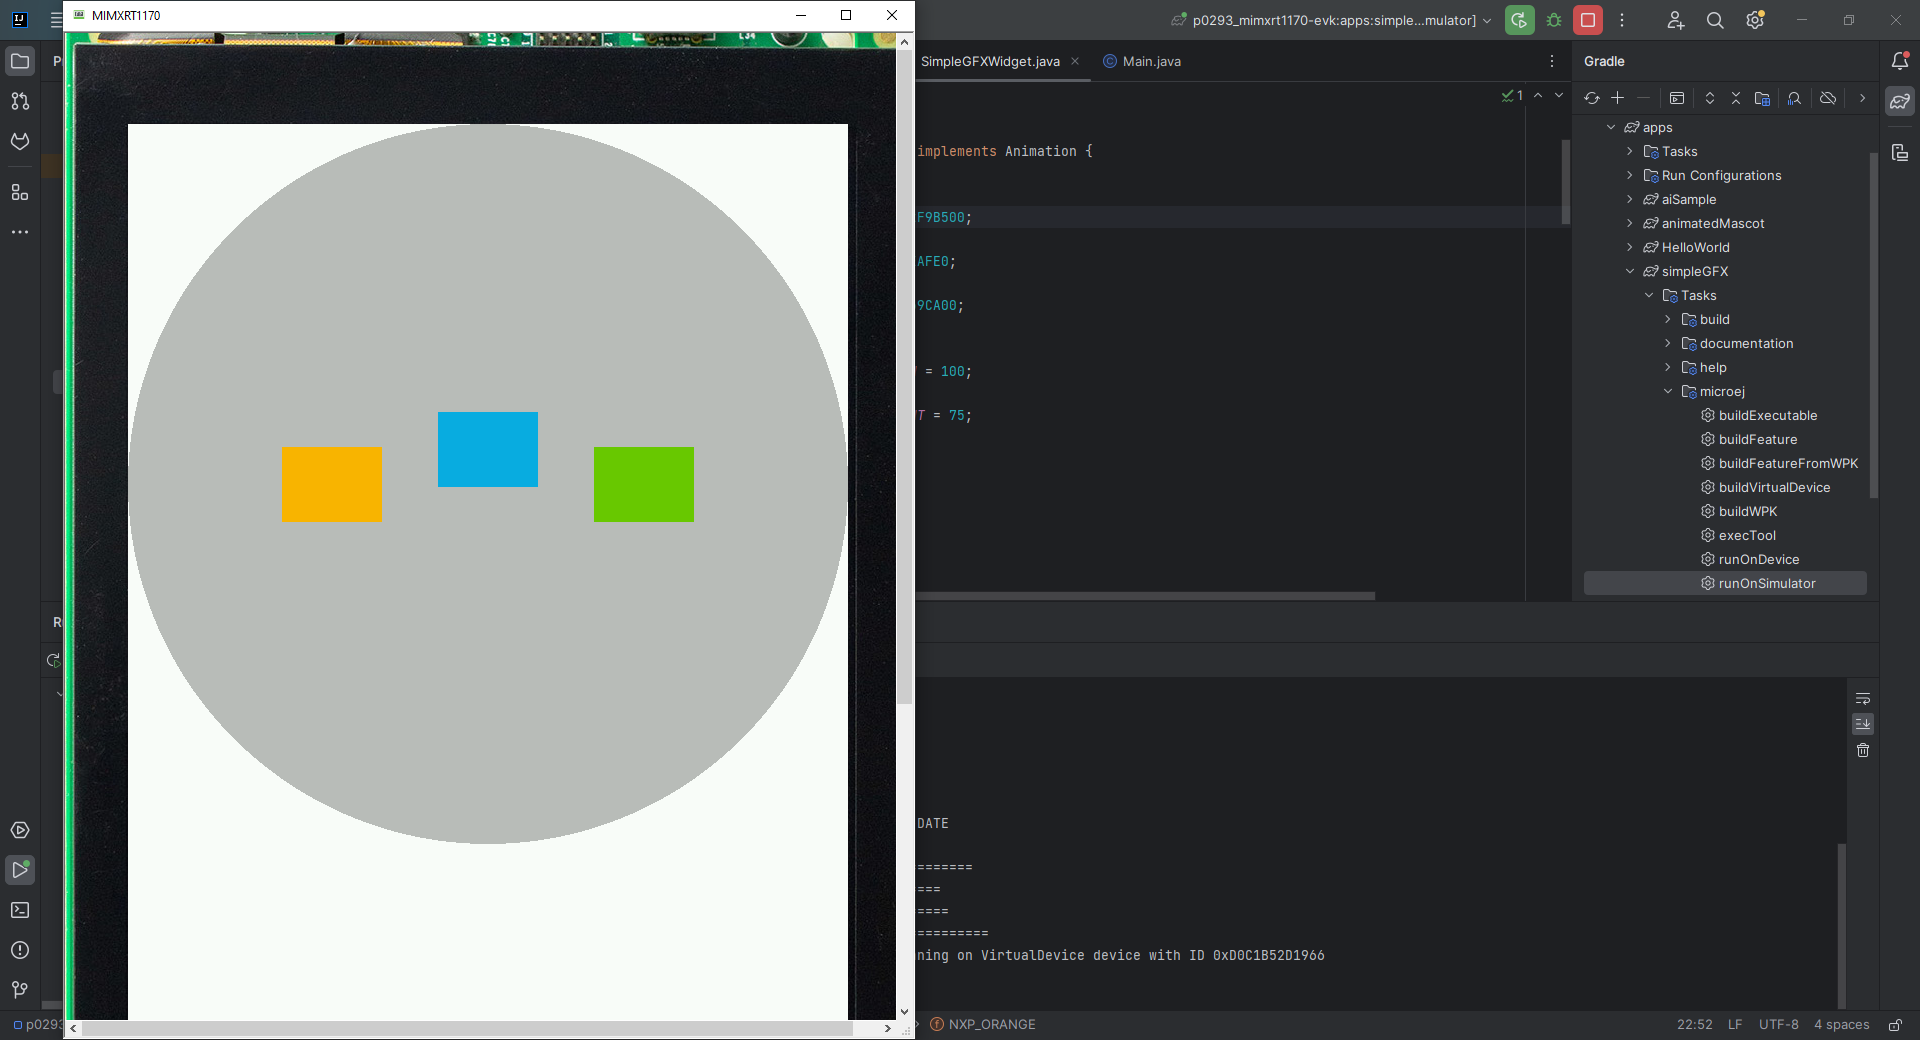
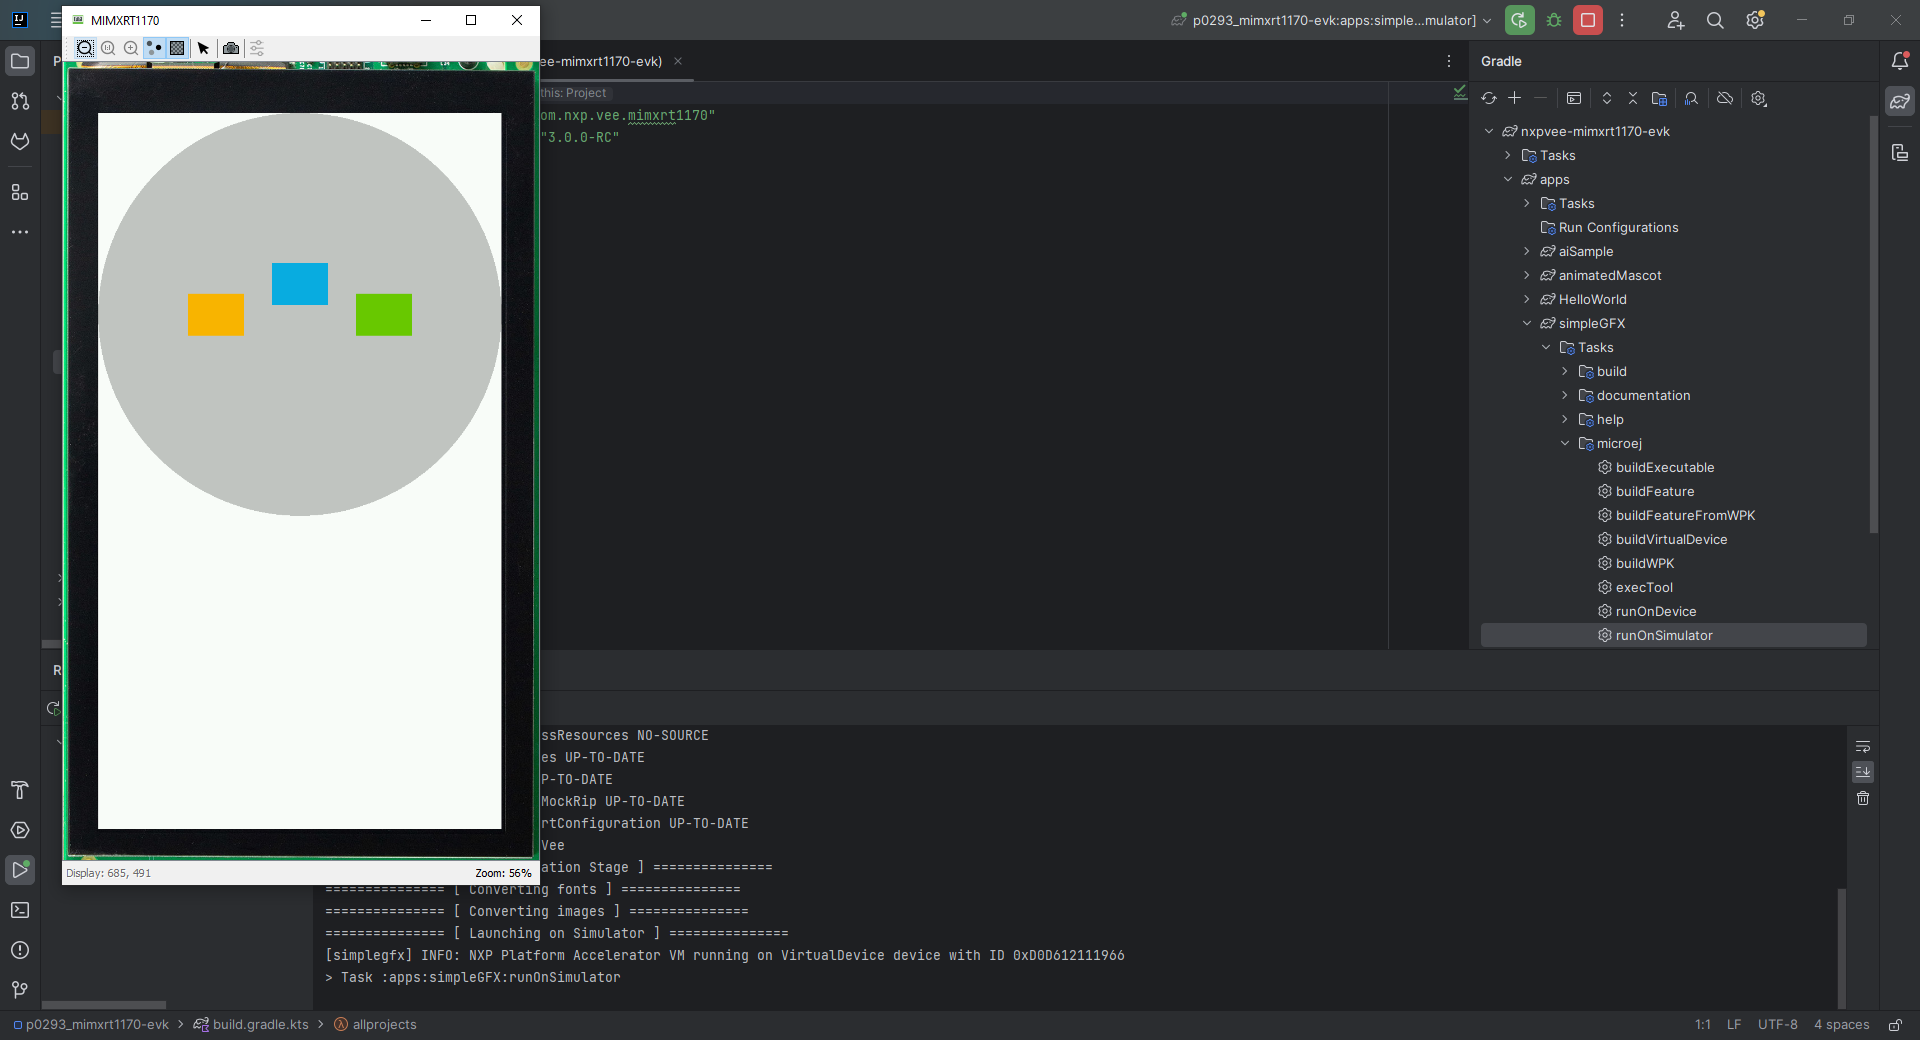
Update frontpanel screenshots

diff --git a/GettingStarted/gettingStartedIMXRT1170.rst b/GettingStarted/gettingStartedIMXRT1170.rst
@@ -13,10 +13,6 @@ In case you are not familiar with MicroEJ, please visit `Discover MicroEJ <https
 Prerequisites
 -------------
 
-.. note::
-  
-   This Getting Started has been tested on Windows 10 & 11. Also, note that examples used in this Getting Started could depend on older tools and libraries. Most notably, our dependency manager plugin (using `Gradle <https://gradle.org/>`__) could be an older version.
-
 This Getting Started is separated in two main parts.
 
 The first part consists of running a demo application on the Virtual Device. All you need is:
@@ -172,10 +168,6 @@ The Virtual Device starts and executes the :guilabel:`animatedMascot` applicatio
          :alt: Virtual Device
          :align: center
          :scale: 70%
-
-.. note::
-  
-   The Front Panel may be too big for your screen because of the RK055HDMIPI4MA0 display resolution. You can scroll down to see the bottom of the display.
 
 .. figure:: images/well-done-mascot.png
    :alt: Well Done

diff --git a/Trainings/gettingStartedIMXRT1170MultiSandbox.rst b/Trainings/gettingStartedIMXRT1170MultiSandbox.rst
@@ -306,7 +306,7 @@ Create the Sandboxed Application Project
 Create a new Sandboxed Application project as follows in IntelliJ IDEA:
 
 - Click on :guilabel:`File` > :guilabel:`New` > :guilabel:`Project...`.
-- Select :guilabel:`MicroEJ`:
+- Select :guilabel:`MicroEJ`.
 - Fill in the name of the project in the :guilabel:`Name` field.
 - Select the location of the project in the :guilabel:`Location` field.
 - Select the :guilabel:`Application` project type.
